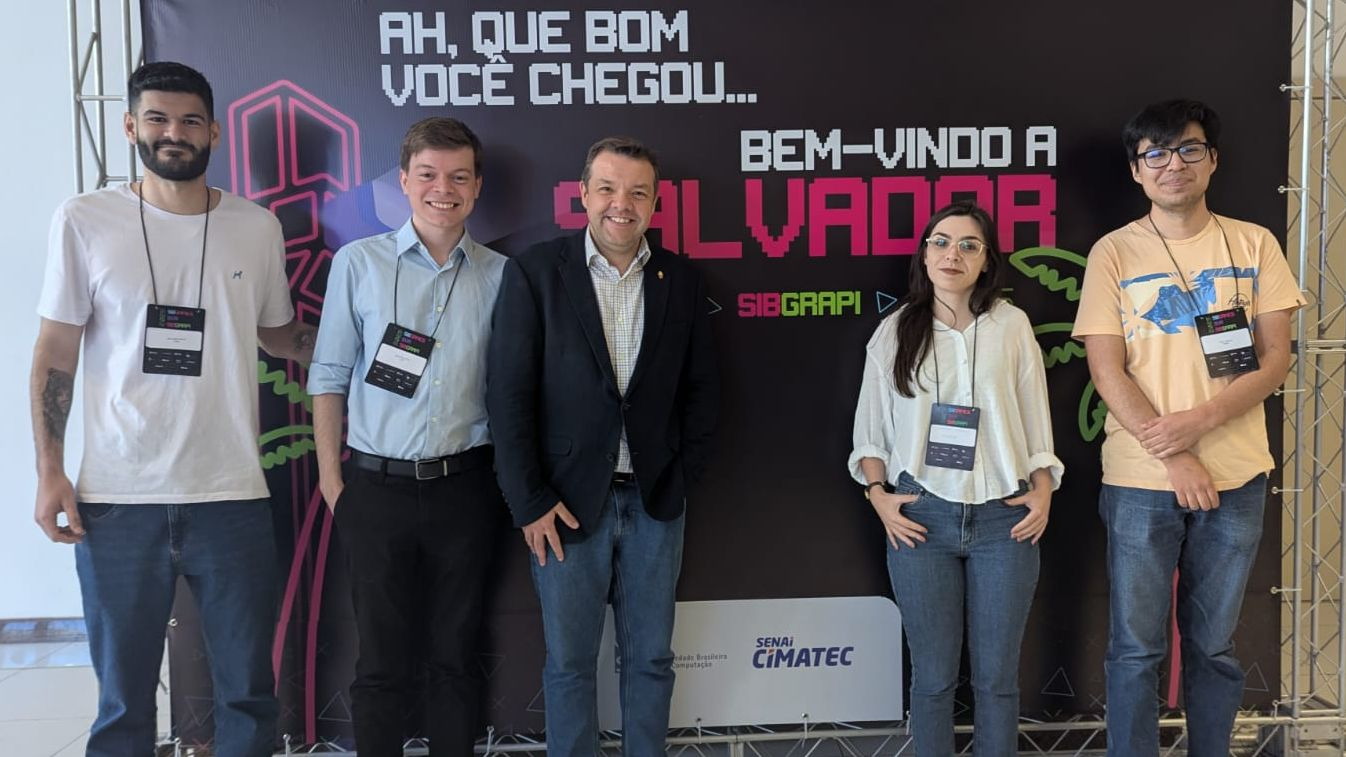
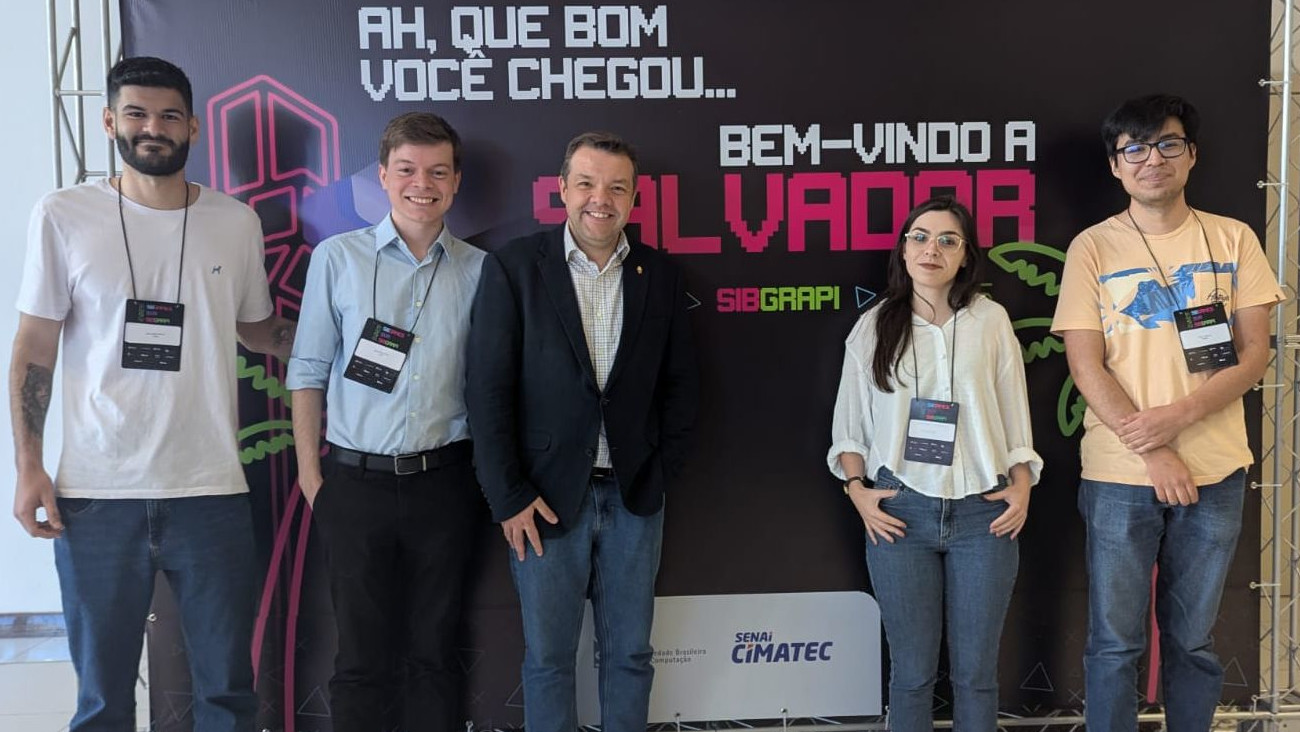
chore(carousel): add icar2025 photo

diff --git a/src/components/Carousel.jsx b/src/components/Carousel.jsx
@@ -10,7 +10,8 @@ import "../style/components/Carousel.css";
 export default function Carousel() {
     const [activeIndex, setActiveIndex] = useState(0);
     const images = [
-        { image: "./carousel/sibgrapi-2025.jpg", alt: "SIBGRAPI 2025" },
+        { image: "./carousel/icar-2025.jpg", alt: "22nd International Conference on Advanced Robotics (ICAR 2025)" },
+        { image: "./carousel/sibgrapi-2025.jpg", alt: "38th Conference on Graphics, Patterns and Images (SIBGRAPI 2025)" },
         { image: "./carousel/pdi-banner.png", alt: "Digital Image Processing and Deep Learning" },
     ]
 
